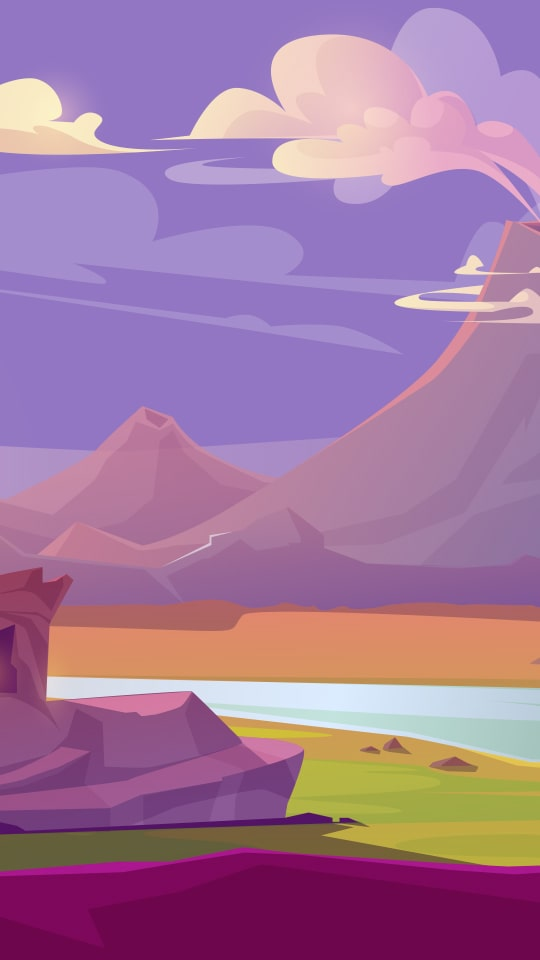
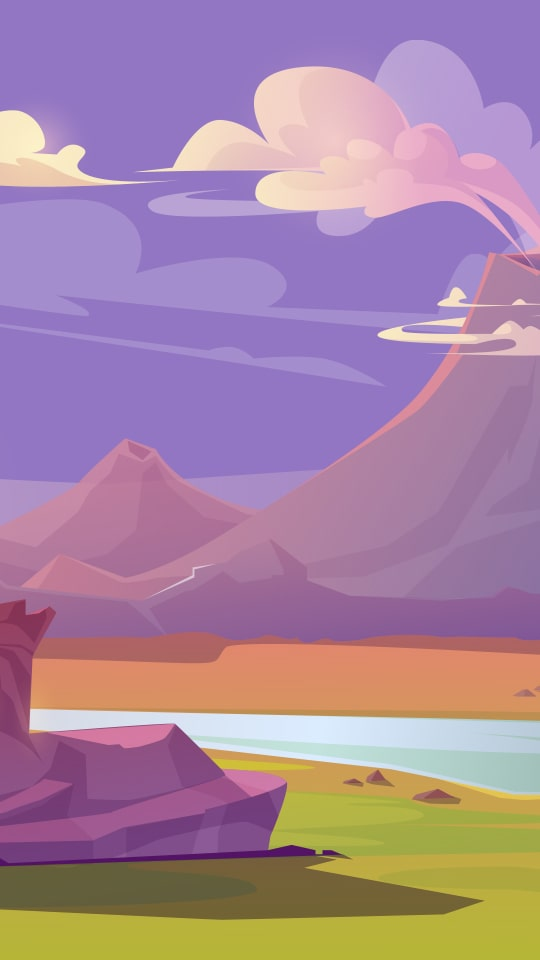
optimize bg

diff --git a/css/rancak.css b/css/rancak.css
@@ -43,7 +43,7 @@ display:flex; text-align:center; align-items:center; justify-content:center;}
 
 
 
-.main-box{position:absolute; z-index:2000;}
+.main-box{position:absolute; z-index:calc(var(--max-zindex) - 5000);}
 .main-box .flex_ori{overflow:inherit;}
 .main-box img{filter:drop-shadow(5px 5px 8px rgba(0,0,0,0.5));}
 .main-link-thumb{max-width:70%; margin:0 auto; position:relative; z-index:1000;}
@@ -61,7 +61,10 @@ display:flex; text-align:center; align-items:center; justify-content:center;}
 
 
 
-.float-player{position:absolute; z-index:calc(var(--max-zindex) - 5000); bottom:0; left:0; width:100%; height:70px; margin-bottom:0; padding:var(--size-3);}
+.bg-bottom, .float-player{--bottom-height:70px; position:absolute; left:0; width:100%;}
+.bg-bottom{z-index:calc(var(--max-zindex) - 6000); bottom:calc(var(--bottom-height) - var(--size-3)); height:80px}
+
+.float-player{z-index:calc(var(--max-zindex) - 7000); bottom:0; height:var(--bottom-height); margin-bottom:0; padding:var(--size-3);}
 .float-player .playerScreen{display:none;}
 .float-player .controls{height:100%; padding:0; display:flex; align-items:center;}
 .float-player .controls .progress{width:100%; margin-left:55px;}
@@ -81,19 +84,19 @@ display:flex; text-align:center; align-items:center; justify-content:center;}
   
   
   @media screen and (orientation:portrait){
-    .main-box-1{bottom:10%; left:8%; width:120px;}
-    .main-box-2{bottom:65%; left:25%; width:130px;}
-    .main-box-3{bottom:27%; left:45%; width:175px;}
-    .main-box-4{bottom:27%; left:45%; width:175px;}
+    .main-box-1{bottom:5%; left:10%; width:120px;}
+    .main-box-2{bottom:65%; left:60%; width:110px;}
+    .main-box-3{bottom:50%; left:5%; width:130px;}
+    .main-box-4{bottom:25%; left:50%; width:160px;}
   }
   
   
   
   @media screen and (orientation:landscape){
-    .main-box-1{bottom:15%; left:8%; width:110px;}
-    .main-box-2{bottom:30%; left:40%; width:120px;}
-    .main-box-3{bottom:15%; left:70%; width:160px;}
-    .main-box-4{bottom:15%; left:70%; width:160px;}
+    .main-box-1{bottom:10%; left:5%; width:110px;}
+    .main-box-2{bottom:0%; left:50%; width:120px;}
+    .main-box-3{bottom:25%; left:25%; width:140px;}
+    .main-box-4{bottom:25%; left:75%; width:140px;}
   }
 }
 
@@ -107,8 +110,19 @@ display:flex; text-align:center; align-items:center; justify-content:center;}
   
   
   
-  .main-box-1{bottom: 10%;left: 10%;width:210px;}
-  .main-box-2{bottom: 66%;left: 30%;width:130px;}
-  .main-box-3{bottom: 25%;left: 45%;width:240px;}
-  .main-box-4{bottom: 50%;left: 75%;width:240px;}
+  .main-box-1{bottom:10%; left:10%; width:210px;}
+  .main-box-2{bottom:66%; left:30%; width:130px;}
+  .main-box-3{bottom:25%; left:45%; width:240px;}
+  .main-box-4{bottom:50%; left:75%; width:240px;}
+}
+
+
+
+
+
+@media screen and (min-width:1920px){
+  .main-box-1{bottom:10%; left:10%; width:240px;}
+  .main-box-2{bottom:55%; left:30%; width:180px;}
+  .main-box-3{bottom:20%; left:50%; width:240px;}
+  .main-box-4{bottom:30%; left:80%; width:290px;}
 }

diff --git a/css/hold.css b/css/hold.css
@@ -48,6 +48,8 @@ z-index:calc(var(--max-zindex) - 4000); width:40px; height:40px; background-colo
 
 
 
+.bg-bottom{background:url("../img/bg-bottom.png") repeat-x bottom left;}
+
 .float-player, .float-player .controls{background-color:var(--bg-2); border:0;}
 .float-player{box-shadow:0 0 0;}
 

diff --git a/index.php b/index.php
@@ -60,6 +60,7 @@
 
 
 
+<div class="bg-bottom"></div>
 <section title="Streaming" id="uniquePlayer-5" class="webPlayer light audioPlayer float-player">
   <div id="uniqueContainer-5" class="videoPlayer"></div>
   <div style="display:none;" class="playerData">
